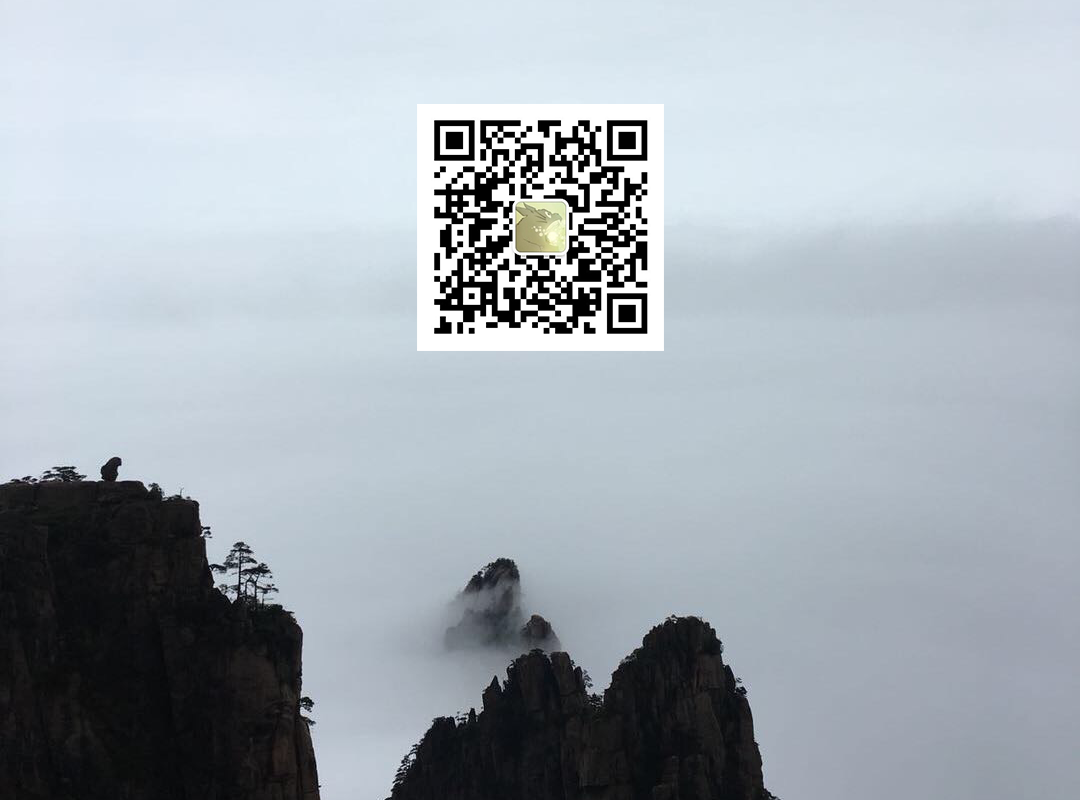
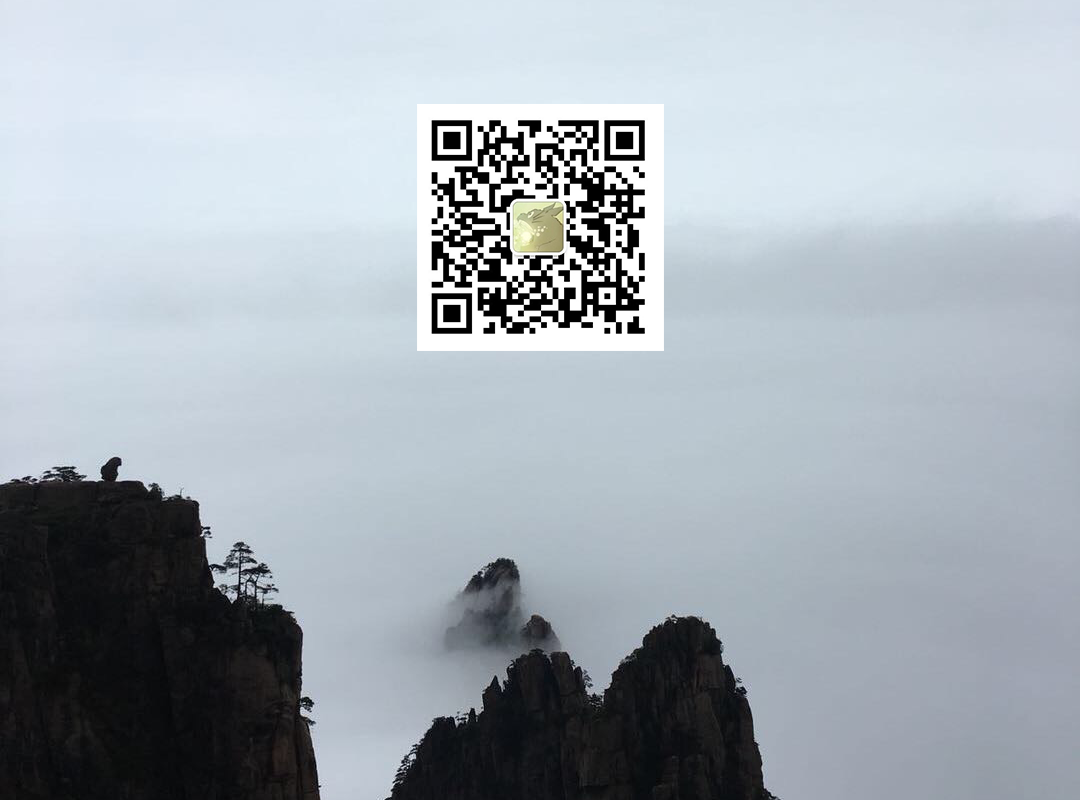
Site updated: 2019-01-01 09:43:15

Changed region(s): [[0.3972, 0.125, 0.6111, 0.4375]]

diff --git a/Python模拟Ajax请求抓取新浪微博.html b/Python模拟Ajax请求抓取新浪微博.html
@@ -526,7 +526,7 @@
 
     
       <div id="wechat" style="display: inline-block">
-        <img id="wechat_qr" src="/images/wechatpay.jpg" alt="keymou 微信支付">
+        <img id="wechat_qr" src="/images/wechatpay.png" alt="keymou 微信支付">
         <p>微信支付</p>
       </div>
     
@@ -797,7 +797,7 @@
       <div class="footer-inner">
         <script async src="https://busuanzi.ibruce.info/busuanzi/2.3/busuanzi.pure.mini.js"></script>
 
-<div class="copyright">&copy; <span itemprop="copyrightYear">2018</span>
+<div class="copyright">&copy; 2018 &mdash; <span itemprop="copyrightYear">2019</span>
   <span class="with-love" id="heart">
     <i class="fa fa-heart"></i>
   </span>

diff --git a/python常见知识点.html b/python常见知识点.html
@@ -577,7 +577,7 @@
 
     
       <div id="wechat" style="display: inline-block">
-        <img id="wechat_qr" src="/images/wechatpay.jpg" alt="keymou 微信支付">
+        <img id="wechat_qr" src="/images/wechatpay.png" alt="keymou 微信支付">
         <p>微信支付</p>
       </div>
     
@@ -844,7 +844,7 @@
       <div class="footer-inner">
         <script async src="https://busuanzi.ibruce.info/busuanzi/2.3/busuanzi.pure.mini.js"></script>
 
-<div class="copyright">&copy; <span itemprop="copyrightYear">2018</span>
+<div class="copyright">&copy; 2018 &mdash; <span itemprop="copyrightYear">2019</span>
   <span class="with-love" id="heart">
     <i class="fa fa-heart"></i>
   </span>

diff --git a/requests库抓取猫眼电影排行.html b/requests库抓取猫眼电影排行.html
@@ -507,7 +507,7 @@
 
     
       <div id="wechat" style="display: inline-block">
-        <img id="wechat_qr" src="/images/wechatpay.jpg" alt="keymou 微信支付">
+        <img id="wechat_qr" src="/images/wechatpay.png" alt="keymou 微信支付">
         <p>微信支付</p>
       </div>
     
@@ -780,7 +780,7 @@
       <div class="footer-inner">
         <script async src="https://busuanzi.ibruce.info/busuanzi/2.3/busuanzi.pure.mini.js"></script>
 
-<div class="copyright">&copy; <span itemprop="copyrightYear">2018</span>
+<div class="copyright">&copy; 2018 &mdash; <span itemprop="copyrightYear">2019</span>
   <span class="with-love" id="heart">
     <i class="fa fa-heart"></i>
   </span>

diff --git a/tesserocr解析库.html b/tesserocr解析库.html
@@ -527,7 +527,7 @@
 
     
       <div id="wechat" style="display: inline-block">
-        <img id="wechat_qr" src="/images/wechatpay.jpg" alt="keymou 微信支付">
+        <img id="wechat_qr" src="/images/wechatpay.png" alt="keymou 微信支付">
         <p>微信支付</p>
       </div>
     
@@ -800,7 +800,7 @@
       <div class="footer-inner">
         <script async src="https://busuanzi.ibruce.info/busuanzi/2.3/busuanzi.pure.mini.js"></script>
 
-<div class="copyright">&copy; <span itemprop="copyrightYear">2018</span>
+<div class="copyright">&copy; 2018 &mdash; <span itemprop="copyrightYear">2019</span>
   <span class="with-love" id="heart">
     <i class="fa fa-heart"></i>
   </span>

diff --git a/アンナチュラル.html b/アンナチュラル.html
@@ -517,7 +517,7 @@
 
     
       <div id="wechat" style="display: inline-block">
-        <img id="wechat_qr" src="/images/wechatpay.jpg" alt="keymou 微信支付">
+        <img id="wechat_qr" src="/images/wechatpay.png" alt="keymou 微信支付">
         <p>微信支付</p>
       </div>
     
@@ -792,7 +792,7 @@
       <div class="footer-inner">
         <script async src="https://busuanzi.ibruce.info/busuanzi/2.3/busuanzi.pure.mini.js"></script>
 
-<div class="copyright">&copy; <span itemprop="copyrightYear">2018</span>
+<div class="copyright">&copy; 2018 &mdash; <span itemprop="copyrightYear">2019</span>
   <span class="with-love" id="heart">
     <i class="fa fa-heart"></i>
   </span>

diff --git a/软件开发生命周期.html b/软件开发生命周期.html
@@ -514,7 +514,7 @@
 
     
       <div id="wechat" style="display: inline-block">
-        <img id="wechat_qr" src="/images/wechatpay.jpg" alt="keymou 微信支付">
+        <img id="wechat_qr" src="/images/wechatpay.png" alt="keymou 微信支付">
         <p>微信支付</p>
       </div>
     
@@ -760,7 +760,7 @@
       <div class="footer-inner">
         <script async src="https://busuanzi.ibruce.info/busuanzi/2.3/busuanzi.pure.mini.js"></script>
 
-<div class="copyright">&copy; <span itemprop="copyrightYear">2018</span>
+<div class="copyright">&copy; 2018 &mdash; <span itemprop="copyrightYear">2019</span>
   <span class="with-love" id="heart">
     <i class="fa fa-heart"></i>
   </span>

diff --git a/index.html b/index.html
@@ -1694,7 +1694,7 @@
       <div class="footer-inner">
         <script async src="https://busuanzi.ibruce.info/busuanzi/2.3/busuanzi.pure.mini.js"></script>
 
-<div class="copyright">&copy; <span itemprop="copyrightYear">2018</span>
+<div class="copyright">&copy; 2018 &mdash; <span itemprop="copyrightYear">2019</span>
   <span class="with-love" id="heart">
     <i class="fa fa-heart"></i>
   </span>

diff --git a/about/index.html b/about/index.html
@@ -515,7 +515,7 @@
       <div class="footer-inner">
         <script async src="https://busuanzi.ibruce.info/busuanzi/2.3/busuanzi.pure.mini.js"></script>
 
-<div class="copyright">&copy; <span itemprop="copyrightYear">2018</span>
+<div class="copyright">&copy; 2018 &mdash; <span itemprop="copyrightYear">2019</span>
   <span class="with-love" id="heart">
     <i class="fa fa-heart"></i>
   </span>

diff --git a/archives/2018/12/index.html b/archives/2018/12/index.html
@@ -688,7 +688,7 @@
       <div class="footer-inner">
         <script async src="https://busuanzi.ibruce.info/busuanzi/2.3/busuanzi.pure.mini.js"></script>
 
-<div class="copyright">&copy; <span itemprop="copyrightYear">2018</span>
+<div class="copyright">&copy; 2018 &mdash; <span itemprop="copyrightYear">2019</span>
   <span class="with-love" id="heart">
     <i class="fa fa-heart"></i>
   </span>

diff --git a/archives/2018/index.html b/archives/2018/index.html
@@ -688,7 +688,7 @@
       <div class="footer-inner">
         <script async src="https://busuanzi.ibruce.info/busuanzi/2.3/busuanzi.pure.mini.js"></script>
 
-<div class="copyright">&copy; <span itemprop="copyrightYear">2018</span>
+<div class="copyright">&copy; 2018 &mdash; <span itemprop="copyrightYear">2019</span>
   <span class="with-love" id="heart">
     <i class="fa fa-heart"></i>
   </span>

diff --git a/archives/index.html b/archives/index.html
@@ -688,7 +688,7 @@
       <div class="footer-inner">
         <script async src="https://busuanzi.ibruce.info/busuanzi/2.3/busuanzi.pure.mini.js"></script>
 
-<div class="copyright">&copy; <span itemprop="copyrightYear">2018</span>
+<div class="copyright">&copy; 2018 &mdash; <span itemprop="copyrightYear">2019</span>
   <span class="with-love" id="heart">
     <i class="fa fa-heart"></i>
   </span>

diff --git a/categories/index.html b/categories/index.html
@@ -487,7 +487,7 @@
       <div class="footer-inner">
         <script async src="https://busuanzi.ibruce.info/busuanzi/2.3/busuanzi.pure.mini.js"></script>
 
-<div class="copyright">&copy; <span itemprop="copyrightYear">2018</span>
+<div class="copyright">&copy; 2018 &mdash; <span itemprop="copyrightYear">2019</span>
   <span class="with-love" id="heart">
     <i class="fa fa-heart"></i>
   </span>
